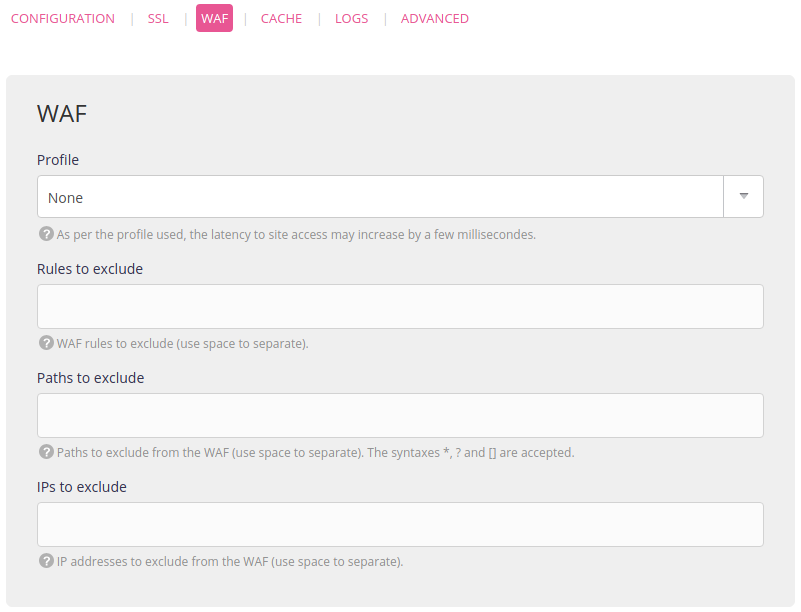
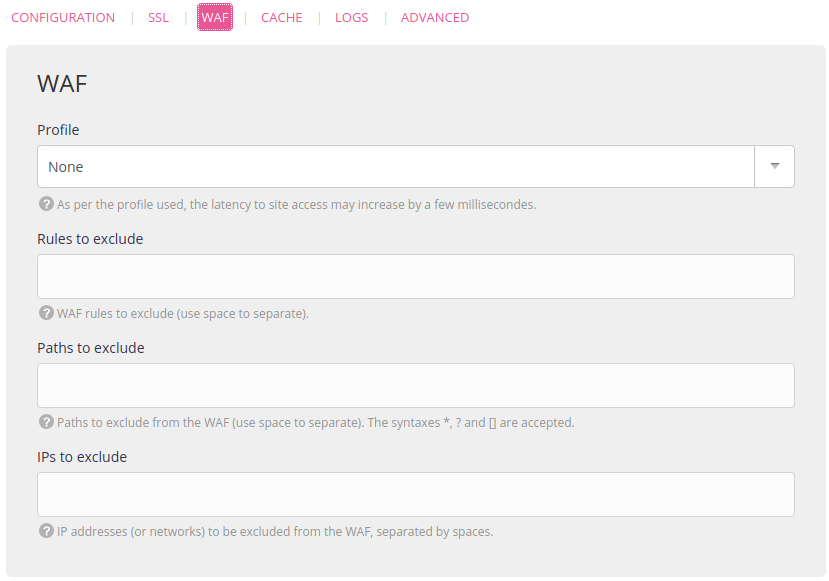
Dedicated+VPS menus (#28)
* dedicated servers -> dedicated + VPS
* Resources server menus
* added IP ranges in WAF exclusion
* ip ranges
* waf new image

diff --git a/advanced/system-resources-alerts-and-limitations/index.fr.md b/advanced/system-resources-alerts-and-limitations/index.fr.md
@@ -1,0 +1,23 @@
++++
+url = "/fr/ressources-systèmes-alertes-et-limitations"
+title = "Ressources système : alertes et limitations"
+layout = "howto"
+hidden = true
+tags = ["serveur dédié", "serveur vps"]
++++
+
+{{% notice info %}}
+Fonctionnalité disponible uniquement sur les serveurs VPS et dédiés.
+{{% /notice %}}
+
+
+
+Le menu **Ressources** permet de configurer ses ressources système, comme la mémoire.
+
+{{< fig "images/admin-panel_resources.fr.png" "Interface d'administration" >}}
+
+- *Limite de RAM par compte* : limite maximale que peut atteindre un compte à un instant T. Si elle est atteinte un processus (pas forcément le plus consommateur) est automatiquement tué par le système.
+
+- *Commande à exécuter en cas de dépassement du seuil de RAM* : commande/script exécuté par le système lorsque le seuil est atteint. Cela permet de ne pas tuer un processus "au hasard".
+
+- *Seuil de RAM* : seuil auquel est effectué le script présenté dessus.

diff --git a/advanced/system-resources-alerts-and-limitations/index.en.md b/advanced/system-resources-alerts-and-limitations/index.en.md
@@ -1,0 +1,20 @@
++++
+title = "Sysadmin Resources: Alerts and Limitations"
+layout = "howto"
+hidden = true
+tags = ["dedicated", "vps"]
++++
+
+{{% notice info %}}
+Fonctionnality only available on dedicated and VPS servers.
+{{% /notice %}}
+
+The **Resources** menu allows to configure sysadmin resources, as the memory.
+
+{{< fig "images/admin-panel_resources.en.png" "Admin interface" >}}
+
+- *RAM limit per account*: maximum limit that an account can reach at a given time. If it is reached a process (not necessarily the most consuming) is automatically killed by the system.
+
+- *Command to execute when RAM threshold is exceeded*: command/script executed by the system when the threshold is reached. This allows not to kill a process "at random".
+
+- *RAM treshold*: treshold at which the script described above is performed.

diff --git a/sites/use-waf/index.fr.md b/sites/use-waf/index.fr.md
@@ -68,6 +68,6 @@ Cependant, le blog en lui-même ne sera plus protégé contre ces tentatives d'a
 
 ## Exclure des IP
 
-Il peut être intéressant d'exclure des **IP sûres** pour éviter à des outils ou des personnes d'être bloqués. 
+Il peut être intéressant d'exclure des **IP sûres** (IP spécifiques ou plages d'IP) pour éviter à des outils ou des personnes d'être bloqués.
 
 Prenons l'exemple de [WPScan](https://wpscan.org/) : en l'activant sur un site WordPress certaines des requêtes qu'il effectue peuvent être bloquées. Exclure des règles ou des chemins ne serait pas efficace comme il observe de nombreuses URLs. La solution est donc d'exclure le serveur HTTP sur lequel est installé WPScan pour qu'il puisse fonctionner normalement.

diff --git a/accounts/permissions.fr.md b/accounts/permissions.fr.md
@@ -49,4 +49,4 @@ Que ce soit pour l'aspect purement technique de vos comptes ou de vos serveurs, 
 - _Configuration SSL_ : choisissez le certificat SSL à retourner sur le serveur (`*.alwaysdata.net` par défaut) et la [configuration TLS]({{< ref "security/ssl-tls/configure-tls" >}}) du serveur ;
 - _Configuration HTTP_ : choisissez un site web qui sera la page d'accueil par défaut ;
 - _Consommation_ : suivez la consommation d'espace disque sur l'ensemble de votre serveur ;
-- _Ressources_ : modifiez les limitations de ressources par compte (ex : consommation RAM).
+- _[Ressources]({{< ref "advanced/system-resources-alerts-and-limitations" >}})_ : modifiez les limitations de ressources par compte (ex : consommation RAM).

diff --git a/sites/use-waf/index.en.md b/sites/use-waf/index.en.md
@@ -67,6 +67,6 @@ Let us take the case of a WordPress type site that shows logs similar to those p
 
 ## Excluding IPs
 
-It may be worth excluding **safe IPs** to stop tools or people from being blocked.
+It may be worth excluding **safe IPs** (specific IPs or IPs ranges) to stop tools or people from being blocked.
 
 Let us take the example of [WPScan](https://wpscan.org/): by activating it on a WordPress site, some of the requests that it runs may be blocked. Excluding rules or paths would not be effective as it observes numerous URLs. The solution is therefore to exclude the HTTP server that WPScan is installed on so that it can operate normally.

diff --git a/accounts/permissions.en.md b/accounts/permissions.en.md
@@ -48,4 +48,4 @@ Whether for the purely technical aspect of your accounts or your servers, your o
 - *SSL configuration*: choose the SSL certificate to return to the server (`*.alwaysdata.net` by default) and the server [TLS configuration]({{< ref "security/ssl-tls/configure-tls" >}}),
 - *HTTP configuration*: choose a website that will be the default home page,
 - *Consumption*: monitor disk space consumption for your entire server,
-- *Resources*: change the resource limits by account (e.g. RAM usage).
+- *[Resources]({{< ref "advanced/system-resources-alerts-and-limitations" >}})*: change the resource limits by account (e.g. RAM usage).

diff --git a/sites/_index.fr.md b/sites/_index.fr.md
@@ -13,6 +13,10 @@ Pour qu'une adresse hébergée chez alwaysdata soit accessible en HTTP/HTTPS ell
 
 Vous pouvez avoir autant de sites que vous le souhaitez sur un seul et même compte. À noter que cela entraîne cependant un risque de sécurité, l'isolation étant au niveau des comptes.
 
+{{% notice note %}}
+Si votre script a besoin d'autoriser certaines IP, autorisez ces [plages d'adresses IP]({{< ref "security/ip-ranges" >}}).
+{{% /notice %}}
+
 ## Ressources
 
 - [API](https://api.alwaysdata.com/v1/site/doc/)

diff --git a/tasks/_index.fr.md b/tasks/_index.fr.md
@@ -18,6 +18,10 @@ Deux types d’informations sont à fournir :
 
 {{< fig "admin-panel_create-task.fr.png" "Interface d’administration : créer une tâche planifiée" >}}
 
+{{% notice note %}}
+Si votre script a besoin d'autoriser certaines IP, autorisez ces [plages d'adresses IP]({{< ref "security/ip-ranges" >}}).
+{{% /notice %}}
+
 ---
 - [Utiliser les tâches planifiées]({{< ref "tasks/use-scheduled-tasks" >}})
 - [Référence API](https://api.alwaysdata.com/v1/job/doc/)

diff --git a/sites/_index.en.md b/sites/_index.en.md
@@ -12,6 +12,10 @@ Any website address hosted on alwaysdata servers **must** be declared in **Web >
 
 You can have as many sites as you wish in a single account. Note that this does entail a security risk as isolation takes place at the account level.
 
+{{% notice note %}}
+If your script needs to allow some IPs, allow these [IP adresses ranges]({{< ref "security/ip-ranges" >}}).
+{{% /notice %}}
+
 ## Resources
 
 - [API](https://api.alwaysdata.com/v1/site/doc/)

diff --git a/tasks/_index.en.md b/tasks/_index.en.md
@@ -17,6 +17,10 @@ Two kinds of information need to be provided:
 
 {{< fig "admin-panel_create-task.en.png" "Administration interface: create a scheduled task" >}}
 
+{{% notice note %}}
+If your script needs to allow some IPs, allow these [IP adresses ranges]({{< ref "security/ip-ranges" >}}).
+{{% /notice %}}
+
 ---
 - [Use scheduled tasks]({{< ref "tasks/use-scheduled-tasks" >}})
 - [API reference](https://api.alwaysdata.com/v1/job/doc/)

diff --git a/security/_index.fr.md b/security/_index.fr.md
@@ -20,3 +20,4 @@ tags = ["sécurité"]
 - [SSL/TLS]({{< relref "ssl-tls" >}})
 - [Mode restreint]({{< relref "restricted-mode" >}}) : limitation des désagréments liés aux abus utilisateurs
 - [Réseau]({{< relref "network" >}}) : gestion du réseau et protections contre les pirates informatiques
+- [Plages d'IP alwaysdata]({{< relref "ip-ranges" >}})

diff --git a/security/_index.en.md b/security/_index.en.md
@@ -19,3 +19,4 @@ tags = ["security"]
 - [SSL/TLS]({{< ref "ssl-tls" >}})
 - [Restricted mode]({{< relref "restricted-mode" >}}): limiting issues linked to users abuse
 - [Network]({{< relref "network" >}}): network management and protection against hackers
+- [alwaysdata IP ranges]({{< relref "ip-ranges" >}})
